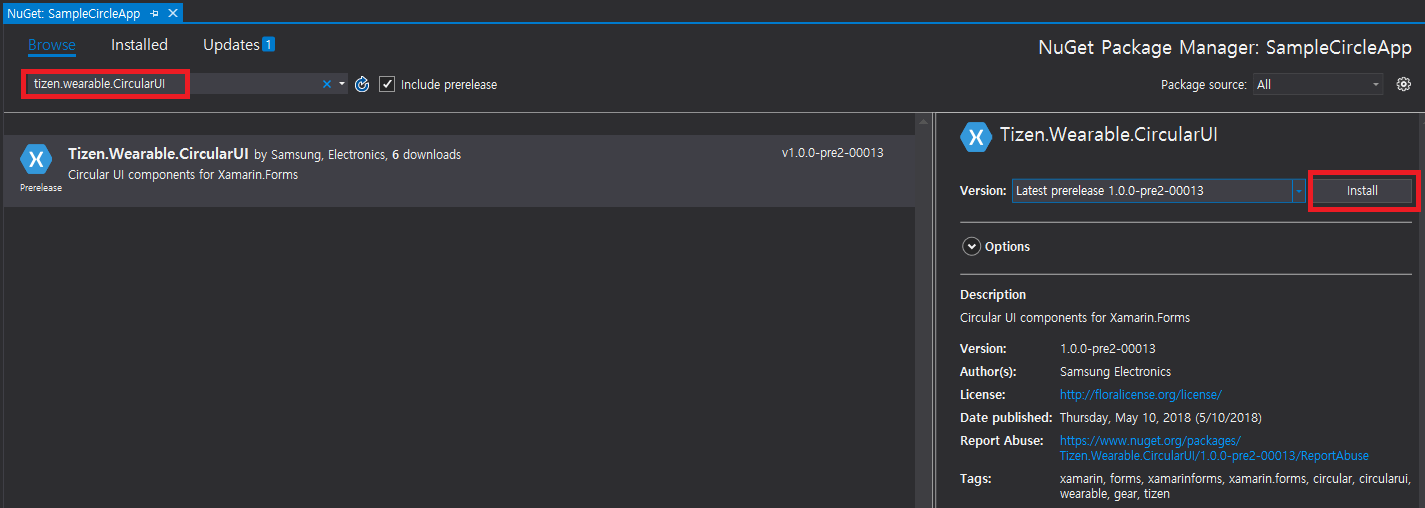
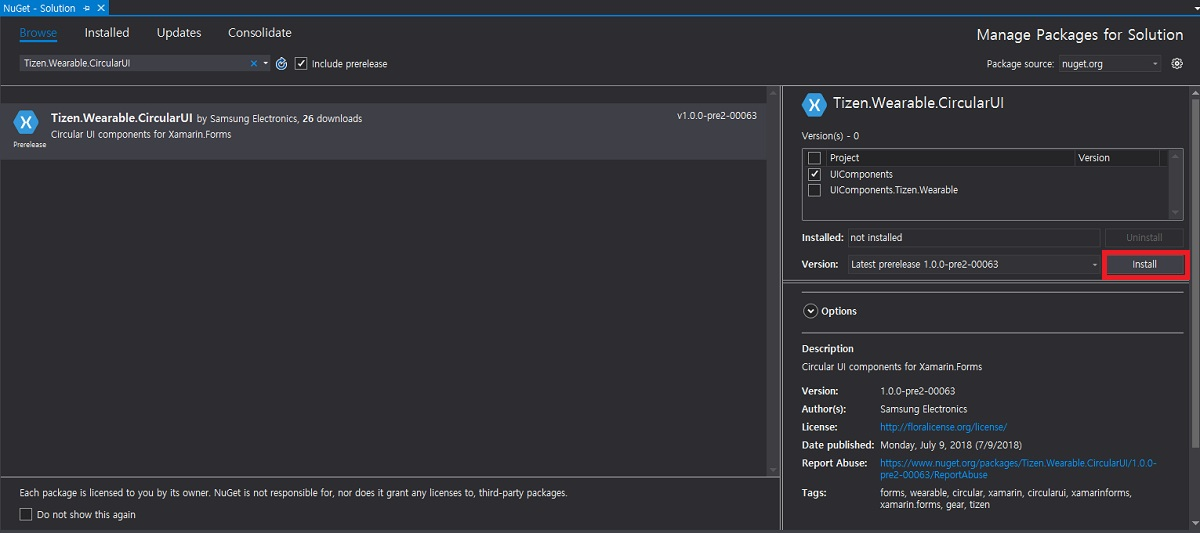
change package source guide from myget to nuget org

Changed region(s): [[0.0, 0.0, 1.0, 1.0], [0.555, 0.2953, 0.6167, 0.3248], [0.9867, 0.9744, 1.0, 1.0]]

diff --git a/doc/guide/Quickstart.md b/doc/guide/Quickstart.md
@@ -12,16 +12,12 @@ If you rotate the bezel of Tizen wearable device, `CircleSlider` bar is moves fo
 
     ![tizen_project_wizard_capture](data/tizen_project_wizard_capture.png)
 
-- Add myget (https://tizen.myget.org/F/dotnet/api/v3/index.json) package source at Tools > Options > Nuget Package Manager > Pakage Sources.
-   
-    ![nuget_package_source](data/nuget_package_source.png)
-
 - Search Xamarin.Forms NuGet package and install latest version
 (supports version 3.1.0.469394-pre1 and higher) via NuGet package manager. Package source is [Nuget.org](https://api.nuget.org/v3/index.json).
 
     ![nuget_package_manager_capture2](data/nuget_package_manager_capture2.png)
 
-- Search Tizen.Wearable.CircularUI NuGet package and install latest version via NuGet package manager. Package source is [myget](https://tizen.myget.org/F/dotnet/api/v3/index.json).
+- Search Tizen.Wearable.CircularUI NuGet package and install latest version via NuGet package manager. Package source is [Nuget.org](https://api.nuget.org/v3/index.json).
 
     ![nuget_package_manager_capture](data/nuget_package_manager_capture.png)
 
